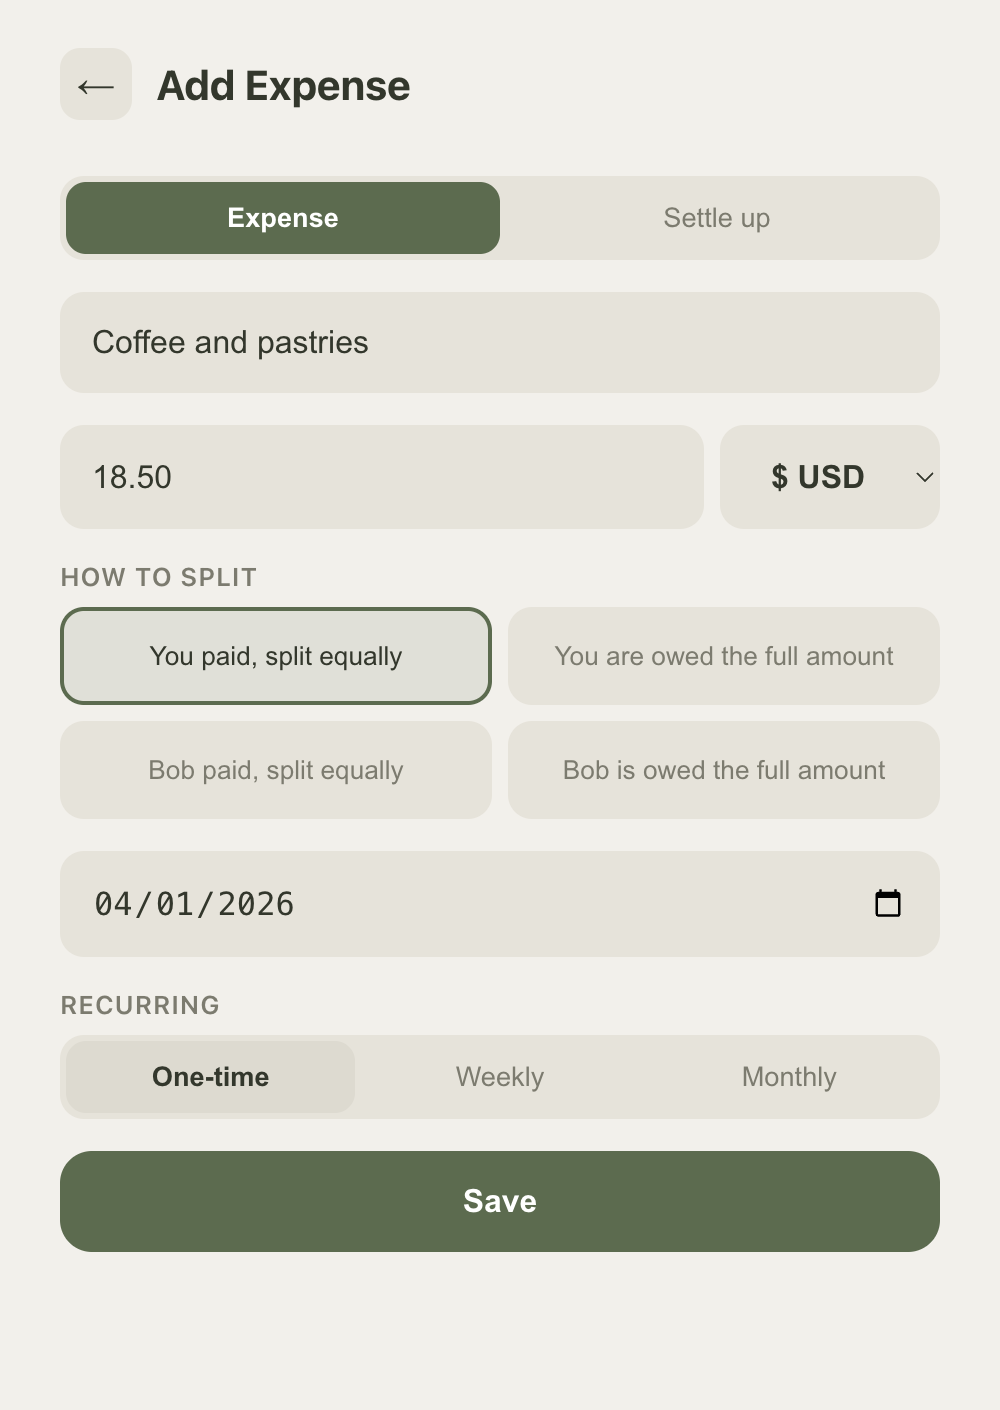
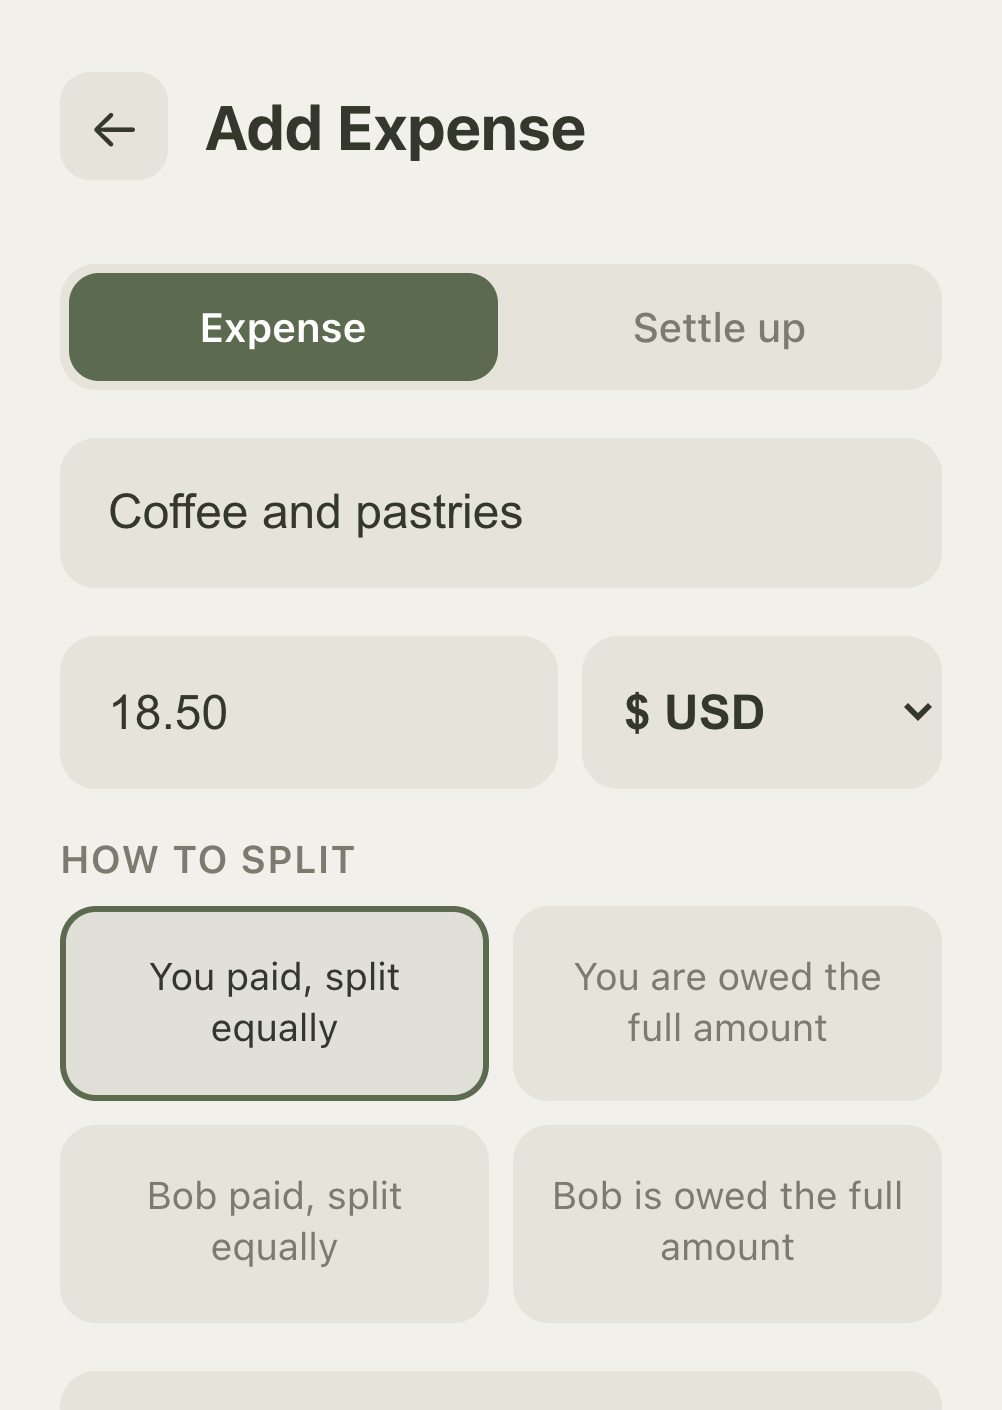
docs: replace screenshots with mockups — Even branding, 2x2 grid in README

diff --git a/README.md b/README.md
@@ -3,9 +3,14 @@
 A shared expense tracker for two people. Track who owes what, split costs, settle up — all in a lightweight PWA that works offline.
 
 <p align="center">
-  <img src="assets/screenshots/dashboard.png" alt="Dashboard with balance and history" width="280">
-  &nbsp;&nbsp;&nbsp;
-  <img src="assets/screenshots/insights.png" alt="Insights with spending breakdown" width="280">
+  <img src="assets/screenshots/dashboard.png" alt="Dashboard" width="240">
+  &nbsp;&nbsp;
+  <img src="assets/screenshots/add-expense.png" alt="Add expense" width="240">
+</p>
+<p align="center">
+  <img src="assets/screenshots/insights.png" alt="Insights — spending by category" width="240">
+  &nbsp;&nbsp;
+  <img src="assets/screenshots/insights2.png" alt="Insights — where you spend and fun stats" width="240">
 </p>
 
 ## Features
